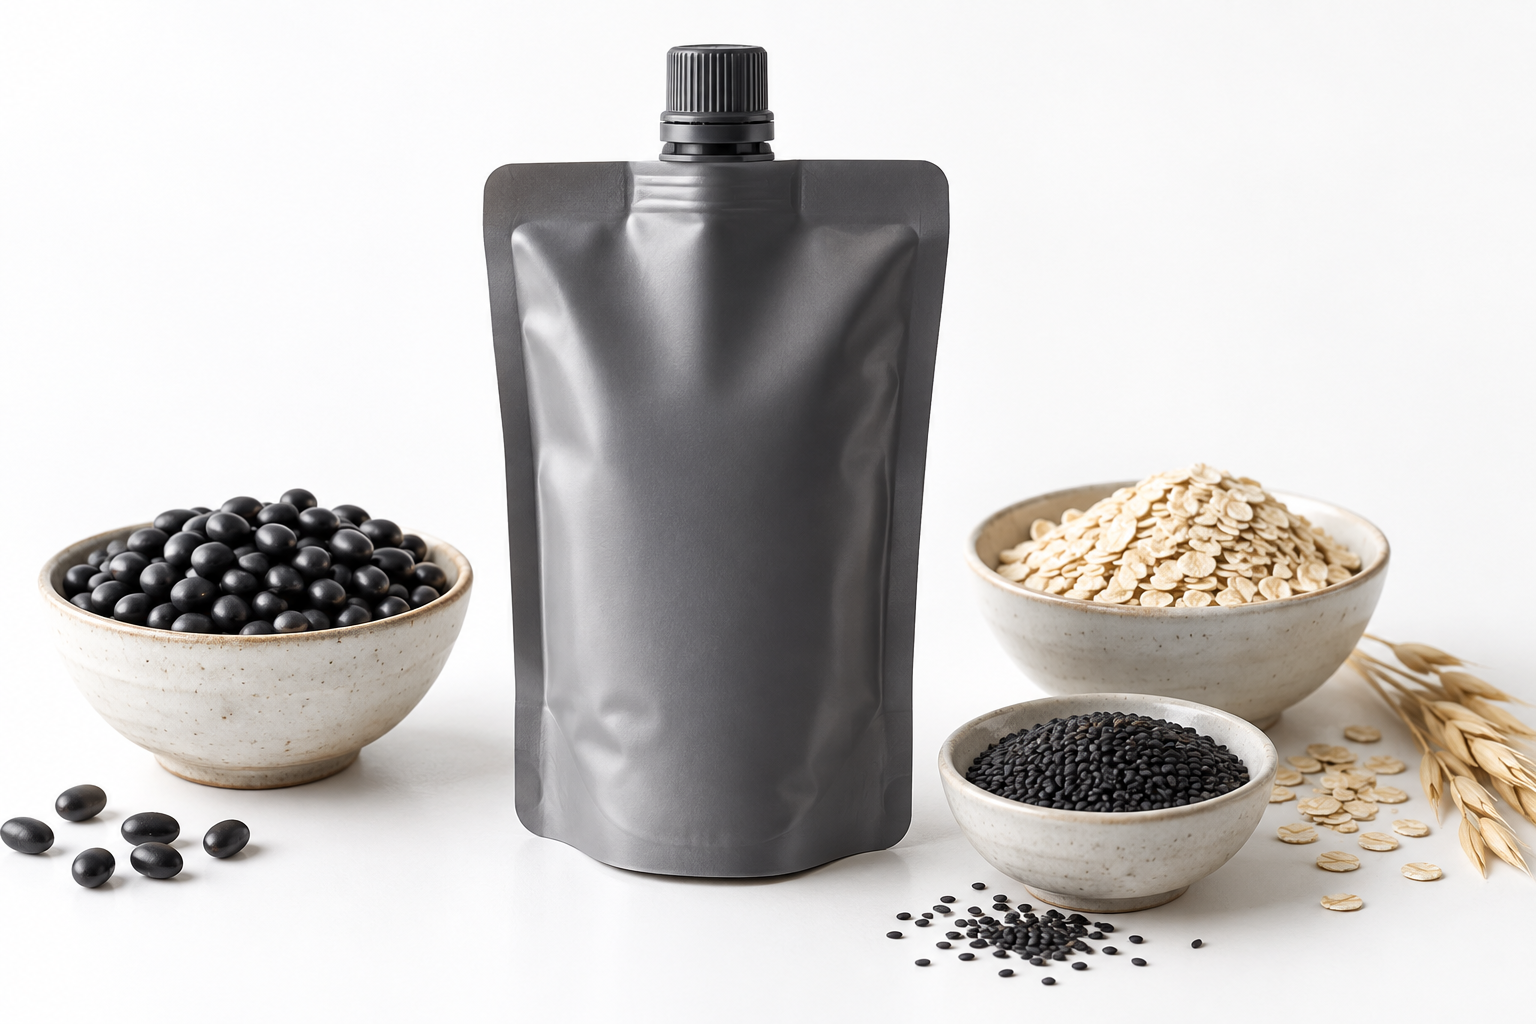
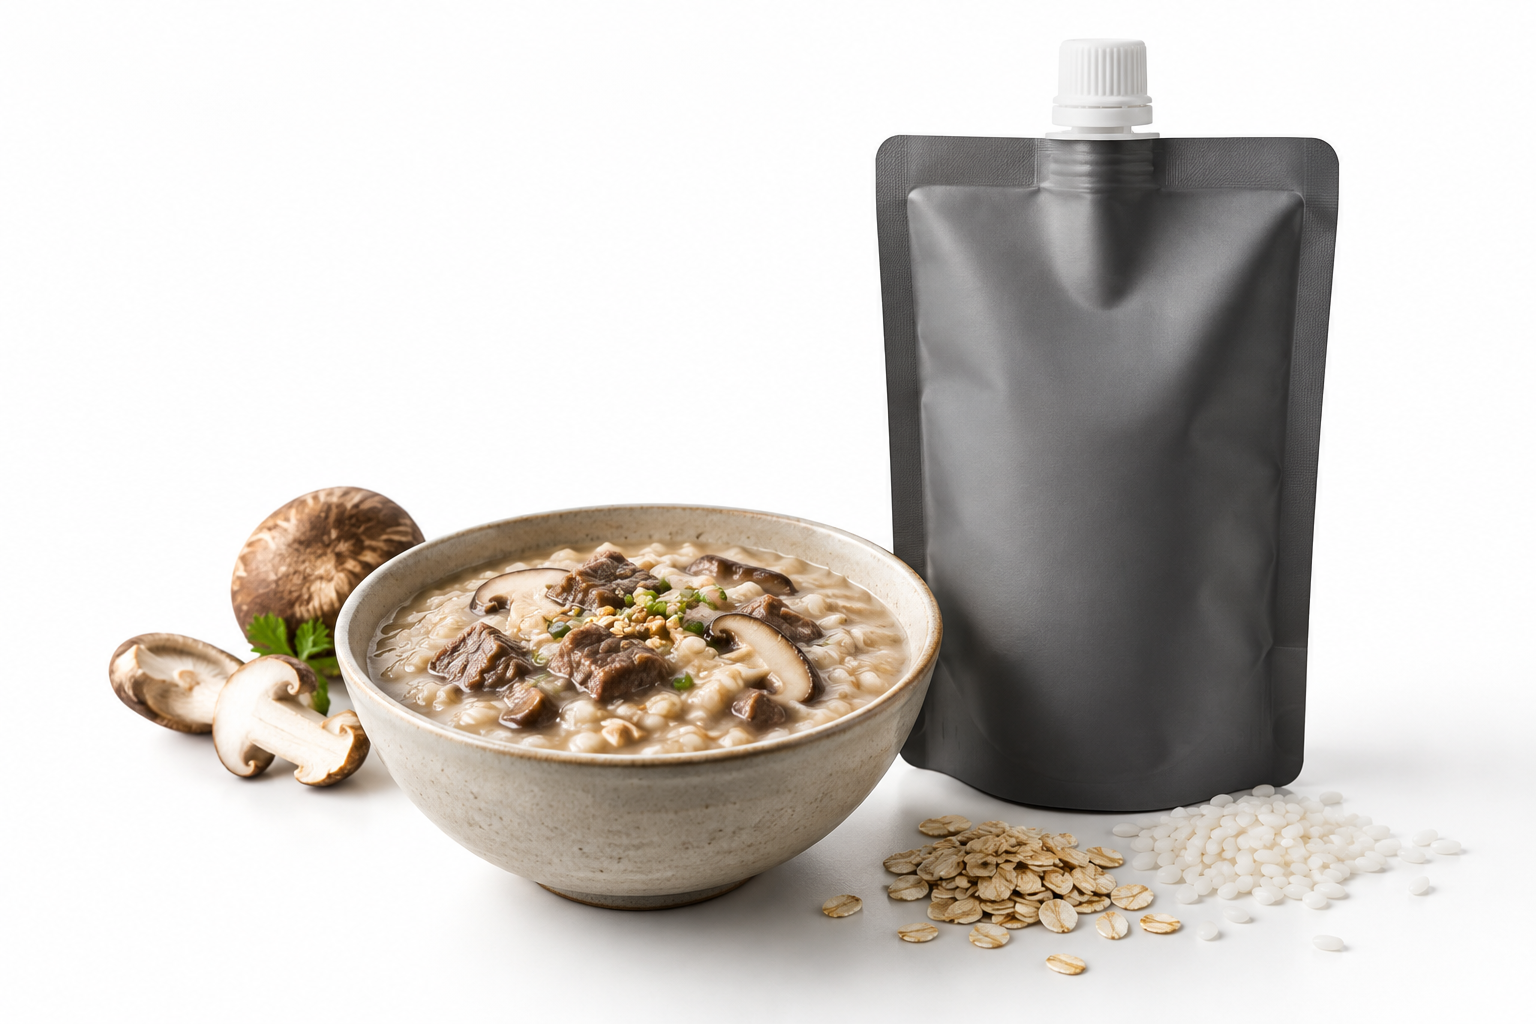
Align full porridge render with beef mushroom concept

diff --git a/index.html b/index.html
@@ -3,7 +3,7 @@
 </style></head><body><header class="topbar"><div class="shell"><a class="brand" href="./">CELLPINDA · MORNING 7</a><nav class="topnav"><a href="#market">시장 근거</a><a href="#recipes">영양 레시피</a><a href="#manufacturing">제조 검토</a></nav></div></header><main>
 <section class="hero"><div class="shell hero-grid"><div><h1>익숙한 죽에<br><em>셀핀다를 더합니다.</em></h1><p class="hero-lead">시장에서 이미 선택받은 기본 죽 3종을 제조 가능한 출발점으로 삼고, 셀핀다 영양 레시피를 제품별로 설계합니다.</p><div class="hero-proof"><span>200g 실온 스파우트</span><span>기본 죽 3종</span><span>영양 레이어 추가</span></div></div><aside class="hero-side"><small>PRODUCT DIRECTION</small><strong>새로운 죽을<br>만드는 일이 아닙니다.</strong><p>사람들이 알고 있는 맛과 제조 기반 위에, 셀핀다만의 영양 설계를 더해 실제 제품으로 구현합니다.</p><img class="hero-image" src="./assets/morning7-banner-trio.png" alt="세 가지 실온 스파우트 죽 콘셉트와 곡물 재료"></aside></div></section>
 <section class="section" id="market"><div class="shell"><div class="head"><div><span class="kicker">GATE 1 · MARKET EVIDENCE</span><h2>대중성은<br>익숙함에서 시작합니다.</h2></div><p>공개 리뷰·구매 신호와 짱죽 제품군을 교차 확인해, 첫 제품의 기본 맛과 제조 방향을 정했습니다.</p></div><div class="decision"><article><span class="num">01 · MARKET</span><h3>단호박</h3><p>즉석죽 대표 신호에서 반복 확인되는 친숙한 단맛 계열.</p><div class="source">햇반 단호박죽 · 공개 리뷰 23,462</div></article><article><span class="num">02 · MARKET</span><h3>쇠고기·야채</h3><p>파우치 죽에서 높은 리뷰 신호를 보이는 식사형 기본축.</p><div class="source">동원 양반 쇠고기죽 파우치 · 공개 리뷰 30,962</div></article><article><span class="num">03 · MANUFACTURING</span><h3>쌀·닭·야채</h3><p>짱죽 공개 제품군에서 확인되는 200g 죽 제조 친화 조합.</p><div class="source">쌀눈 닭죽 · 그린야채닭죽 · 200g</div></article></div></div></section>
-<section class="section soft"><div class="shell"><div class="head"><div><span class="kicker">THE THREE BASES</span><h2>기본 죽은<br>세 가지로 좁힙니다.</h2></div><p>제품 차별화는 낯선 원료를 앞세우는 것이 아니라, 소비자가 한 번에 이해하는 죽 위에 만들어집니다.</p></div><p class="base-intro">세 가지 모두 쌀 기반의 익숙한 죽으로 시작합니다. 차이는 셀핀다 영양 레시피와 물성·풍미 설계에서 만듭니다.</p><div class="product-grid"><article class="product light"><span class="label">01 / LIGHT BASE</span><h3>단호박죽</h3><p class="role">부드럽고 은은한 단맛의 기본 죽</p><img src="./assets/morning7-light.png" alt="단호박과 쌀, 귀리 재료를 곁들인 실온 스파우트 죽 렌더링"><dl><dt>기본 원료</dt><dd>쌀·단호박·귀리</dd><dt>제조 방향</dt><dd>낮은 입자감</dd><dt>영양 역할</dt><dd>가볍게 시작</dd></dl><div class="story">“아침 첫 팩을 쉽게 여는 맛”</div></article><article class="product daily"><span class="label">02 / DAILY BASE</span><h3>닭·야채죽</h3><p class="role">매일 먹기 좋은 담백한 식사형 기본 죽</p><img src="./assets/morning7-daily.png" alt="쌀과 혼합곡물 재료를 곁들인 실온 스파우트 죽 렌더링"><dl><dt>기본 원료</dt><dd>쌀·쌀눈·닭·야채</dd><dt>제조 방향</dt><dd>균형 점도</dd><dt>영양 역할</dt><dd>매일의 기준</dd></dl><div class="story">“가장 넓은 대중성을 노리는 기준 맛”</div></article><article class="product full"><span class="label">03 / FULL BASE</span><h3>쇠고기·버섯죽</h3><p class="role">고소하고 깊은 풍미의 든든한 식사형 죽</p><img src="./assets/morning7-full.png" alt="검은콩과 귀리 재료를 곁들인 실온 스파우트 죽 렌더링"><dl><dt>기본 원료</dt><dd>쌀·쇠고기·버섯</dd><dt>제조 방향</dt><dd>식사감 강화</dd><dt>영양 역할</dt><dd>든든한 루틴</dd></dl><div class="story">“한 팩의 만족감을 분명하게 만드는 맛”</div></article></div></div></section>
+<section class="section soft"><div class="shell"><div class="head"><div><span class="kicker">THE THREE BASES</span><h2>기본 죽은<br>세 가지로 좁힙니다.</h2></div><p>제품 차별화는 낯선 원료를 앞세우는 것이 아니라, 소비자가 한 번에 이해하는 죽 위에 만들어집니다.</p></div><p class="base-intro">세 가지 모두 쌀 기반의 익숙한 죽으로 시작합니다. 차이는 셀핀다 영양 레시피와 물성·풍미 설계에서 만듭니다.</p><div class="product-grid"><article class="product light"><span class="label">01 / LIGHT BASE</span><h3>단호박죽</h3><p class="role">부드럽고 은은한 단맛의 기본 죽</p><img src="./assets/morning7-light.png" alt="단호박과 쌀, 귀리 재료를 곁들인 실온 스파우트 죽 렌더링"><dl><dt>기본 원료</dt><dd>쌀·단호박·귀리</dd><dt>제조 방향</dt><dd>낮은 입자감</dd><dt>영양 역할</dt><dd>가볍게 시작</dd></dl><div class="story">“아침 첫 팩을 쉽게 여는 맛”</div></article><article class="product daily"><span class="label">02 / DAILY BASE</span><h3>닭·야채죽</h3><p class="role">매일 먹기 좋은 담백한 식사형 기본 죽</p><img src="./assets/morning7-daily.png" alt="쌀과 혼합곡물 재료를 곁들인 실온 스파우트 죽 렌더링"><dl><dt>기본 원료</dt><dd>쌀·쌀눈·닭·야채</dd><dt>제조 방향</dt><dd>균형 점도</dd><dt>영양 역할</dt><dd>매일의 기준</dd></dl><div class="story">“가장 넓은 대중성을 노리는 기준 맛”</div></article><article class="product full"><span class="label">03 / FULL BASE</span><h3>쇠고기·버섯죽</h3><p class="role">고소하고 깊은 풍미의 든든한 식사형 죽</p><img src="./assets/morning7-full.png" alt="쇠고기와 버섯을 곁들인 실온 스파우트 죽 렌더링"><dl><dt>기본 원료</dt><dd>쌀·쇠고기·버섯</dd><dt>제조 방향</dt><dd>식사감 강화</dd><dt>영양 역할</dt><dd>든든한 루틴</dd></dl><div class="story">“한 팩의 만족감을 분명하게 만드는 맛”</div></article></div></div></section>
 <section class="section" id="recipes"><div class="shell"><div class="recipe-title"><h2>기본 죽 위에<br>영양 레시피를 얹습니다.</h2><p>셀핀다의 역할은 죽을 복잡하게 만드는 것이 아니라, 제품별 섭취 상황과 맛을 해치지 않는 영양 조합을 설계하는 것입니다.</p></div><div class="layers"><div class="layer"><div class="layer-name"><small>FOOD LAYER</small>기본 죽</div><strong>쌀·채소·닭·쇠고기·단호박</strong><p>대중성이 확인된 원료와 제조사가 다루기 쉬운 식품 베이스</p></div><div class="layer"><div class="layer-name"><small>NUTRITION LAYER</small>영양 레시피</div><strong>프로틴·GABA·아르기닌·오르니틴·셀레늄·아연 후보</strong><p>제품별 목적에 따라 조합하되, 원료 적합성·함량·맛·열처리 안정성을 검증</p></div><div class="layer"><div class="layer-name"><small>EXPERIENCE LAYER</small>섭취 경험</div><strong>실온 보관 · 스파우트 섭취 · 200g</strong><p>별도 조리나 도구 없이 바로 먹는 흐름을 유지</p></div></div><div class="matrix"><article><span class="code">01 / PUMPKIN</span><h3>단호박죽</h3><strong>프로틴 + GABA + 아연 후보</strong><p>부드러운 단맛을 유지하면서 ‘가볍게 시작하는 아침’ 이야기를 만듭니다. 단백질 원료의 이취와 단맛 균형을 우선 검증합니다.</p></article><article><span class="code">02 / CHICKEN</span><h3>닭·야채죽</h3><strong>프로틴 + GABA + 셀레늄 후보</strong><p>가장 반복섭취 가능성이 높은 담백한 베이스에 균형 영양 이야기를 연결합니다. Morning 7의 기준 제품 후보입니다.</p></article><article><span class="code">03 / BEEF</span><h3>쇠고기·버섯죽</h3><strong>프로틴 + 아르기닌 + 오르니틴 + 아연 후보</strong><p>깊은 풍미와 든든한 식사감을 살리되, 원료 향과 열처리 안정성의 제조 검증을 선행합니다.</p></article></div><p class="guard">※ 위 조합은 제품 설계 후보입니다. 원료의 식품 사용 가능 여부, 사용조건, 표시·광고 가능 범위, 안전성, 열처리 안정성 및 완제품 함량 확인 후 확정합니다.</p></div></section>
 <section class="section soft"><div class="shell evidence"><div><span class="kicker">EVIDENCE, NOT ASSUMPTION</span><h2>근거가 있는<br>기본에서 시작합니다.</h2><p class="evidence-lead">공개 데이터는 실제 판매량 전체가 아니라 플랫폼에서 확인 가능한 리뷰·월간 구매 신호입니다. 따라서 시장 방향성과 우선순위를 정하는 근거로 사용합니다.</p><div class="sources"><a href="https://www.coupang.com/vp/products/8750130786" target="_blank" rel="noreferrer">쿠팡 짱죽 200g 제품군</a><br><a href="https://www.11st.co.kr/products/15261705" target="_blank" rel="noreferrer">11번가 짱죽 쌀눈 수제 웰빙죽</a><br><a href="https://www.kamis.or.kr/customer/price/agricultureRetail/catalogue.do?action=yearly" target="_blank" rel="noreferrer">KAMIS 식품 원료 가격정보</a></div></div><div><div class="evidence-table"><div class="evidence-row"><strong>즉석죽</strong><span>전복죽·단호박죽</span><span>공개 리뷰 신호 상위권</span></div><div class="evidence-row"><strong>파우치 죽</strong><span>쇠고기죽</span><span>공개 리뷰 30,962</span></div><div class="evidence-row"><strong>짱죽 제품군</strong><span>200g·쌀눈·닭·한우·야채</span><span>실제 제조 제품 구조 참고</span></div><div class="evidence-row"><strong>영양식</strong><span>프로틴·선식</span><span>단백질 수요 신호 참고</span></div></div><div class="source-note">확정하는 것은 ‘시장 1위’가 아니라 첫 제조시험의 출발점입니다. 실제 판매량·원가·관능·공정 결과가 확보되면 다음 게이트에서 레시피를 다시 좁힙니다.</div></div></div></section>
 <section class="section" id="manufacturing"><div class="shell manufacturing"><div><span class="kicker">MANUFACTURING CHECK</span><h2>제조사는<br>가능성을 확인합니다.</h2><p class="manufacturing-intro">브랜드사는 기본 죽 3종과 영양 레시피 방향을 제시하고, 제조사는 실제 배합과 공정으로 구현 가능한지 확인합니다.</p></div><div class="checks"><div class="check"><b>01</b><div><strong>원료 사용 가능성</strong><p>프로틴·GABA·아르기닌·오르니틴·셀레늄·아연의 식품 원료 적합성과 사용조건 확인</p></div></div><div class="check"><b>02</b><div><strong>열처리와 맛</strong><p>레토르트·살균 이후 영양 성분, 이취, 색, 점도와 분리 변화 확인</p></div></div><div class="check"><b>03</b><div><strong>스파우트 적합성</strong><p>200g 충진·실링·누액·통과성·소비기한을 실제 샘플로 검토</p></div></div><div class="check"><b>04</b><div><strong>원가와 양산성</strong><p>원료·가공·살균·포장·수율을 포함한 제조원가와 최소 생산수량 확인</p></div></div><div class="check"><b>05</b><div><strong>블라인드 검증</strong><p>제품명을 가린 상태에서도 부드러움·매일성·든든함이 구분되는지 평가</p></div></div></div></div></section><section class="closing"><div class="shell"><h2>익숙한 죽에,<br>새로운 이유를.</h2><p>CELLPINDA MORNING 7은 시장에서 이해되는 기본 죽 3종부터 제조시험을 시작합니다.</p></div></section></main><footer class="footer"><div class="shell"><strong>CELLPINDA MORNING 7</strong><span>공개 제품 설계 브리프 · 2026.09 · 시장 신호와 검증 전 후보를 구분합니다.</span></div></footer></body></html>
